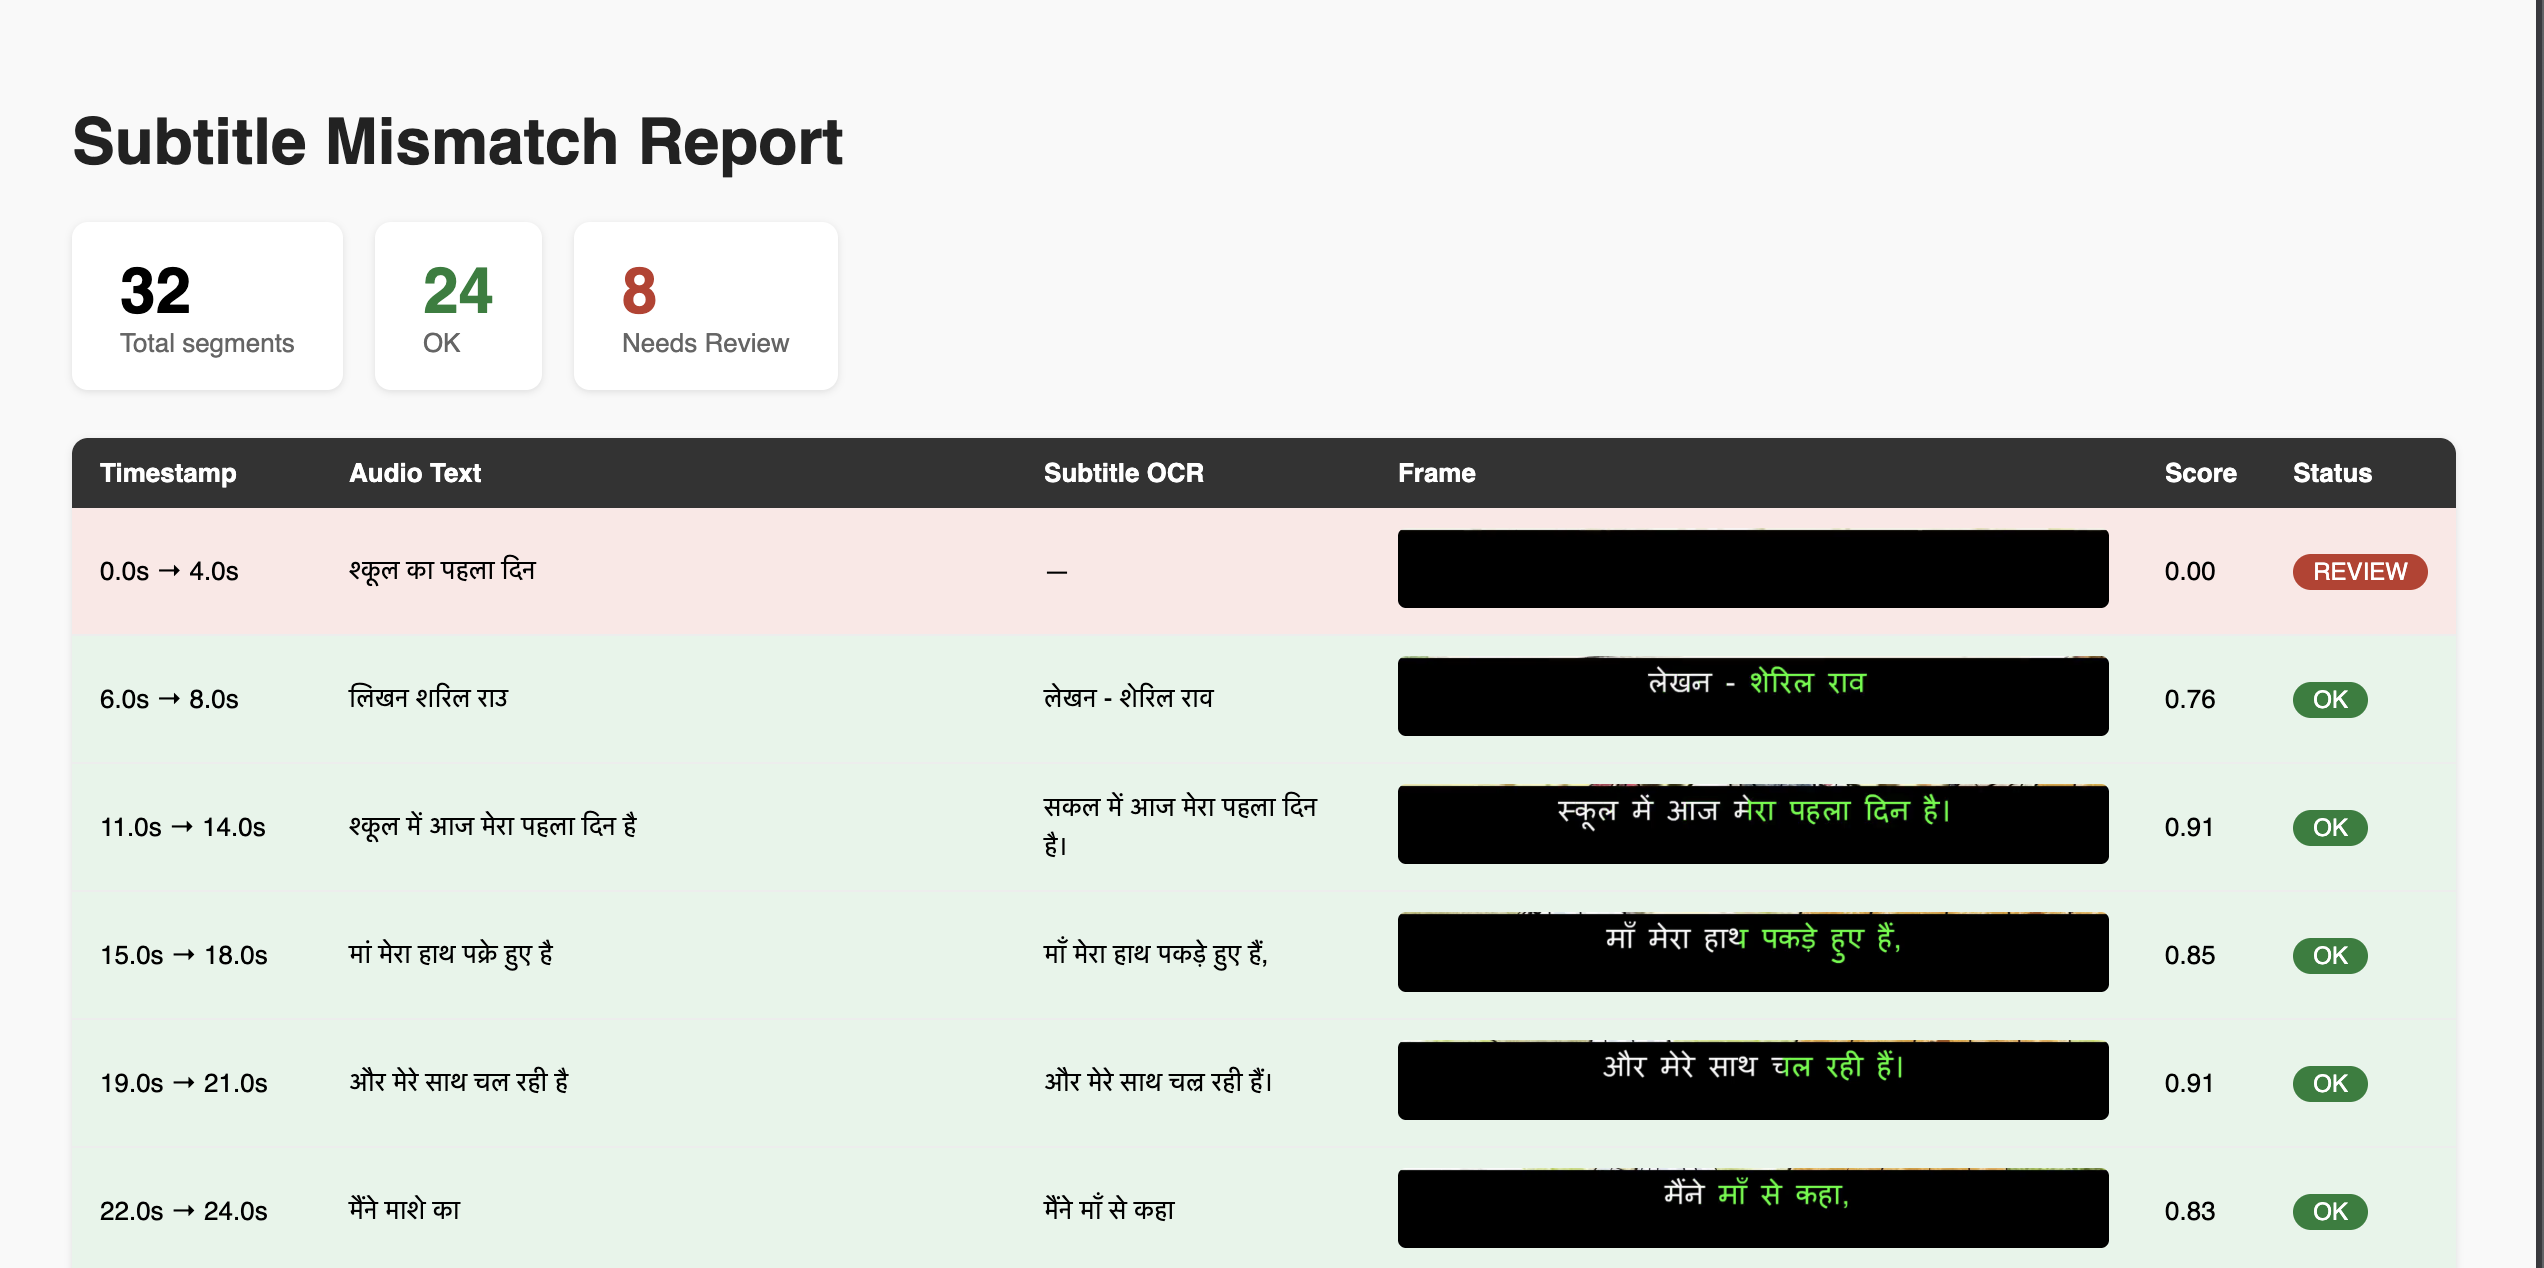
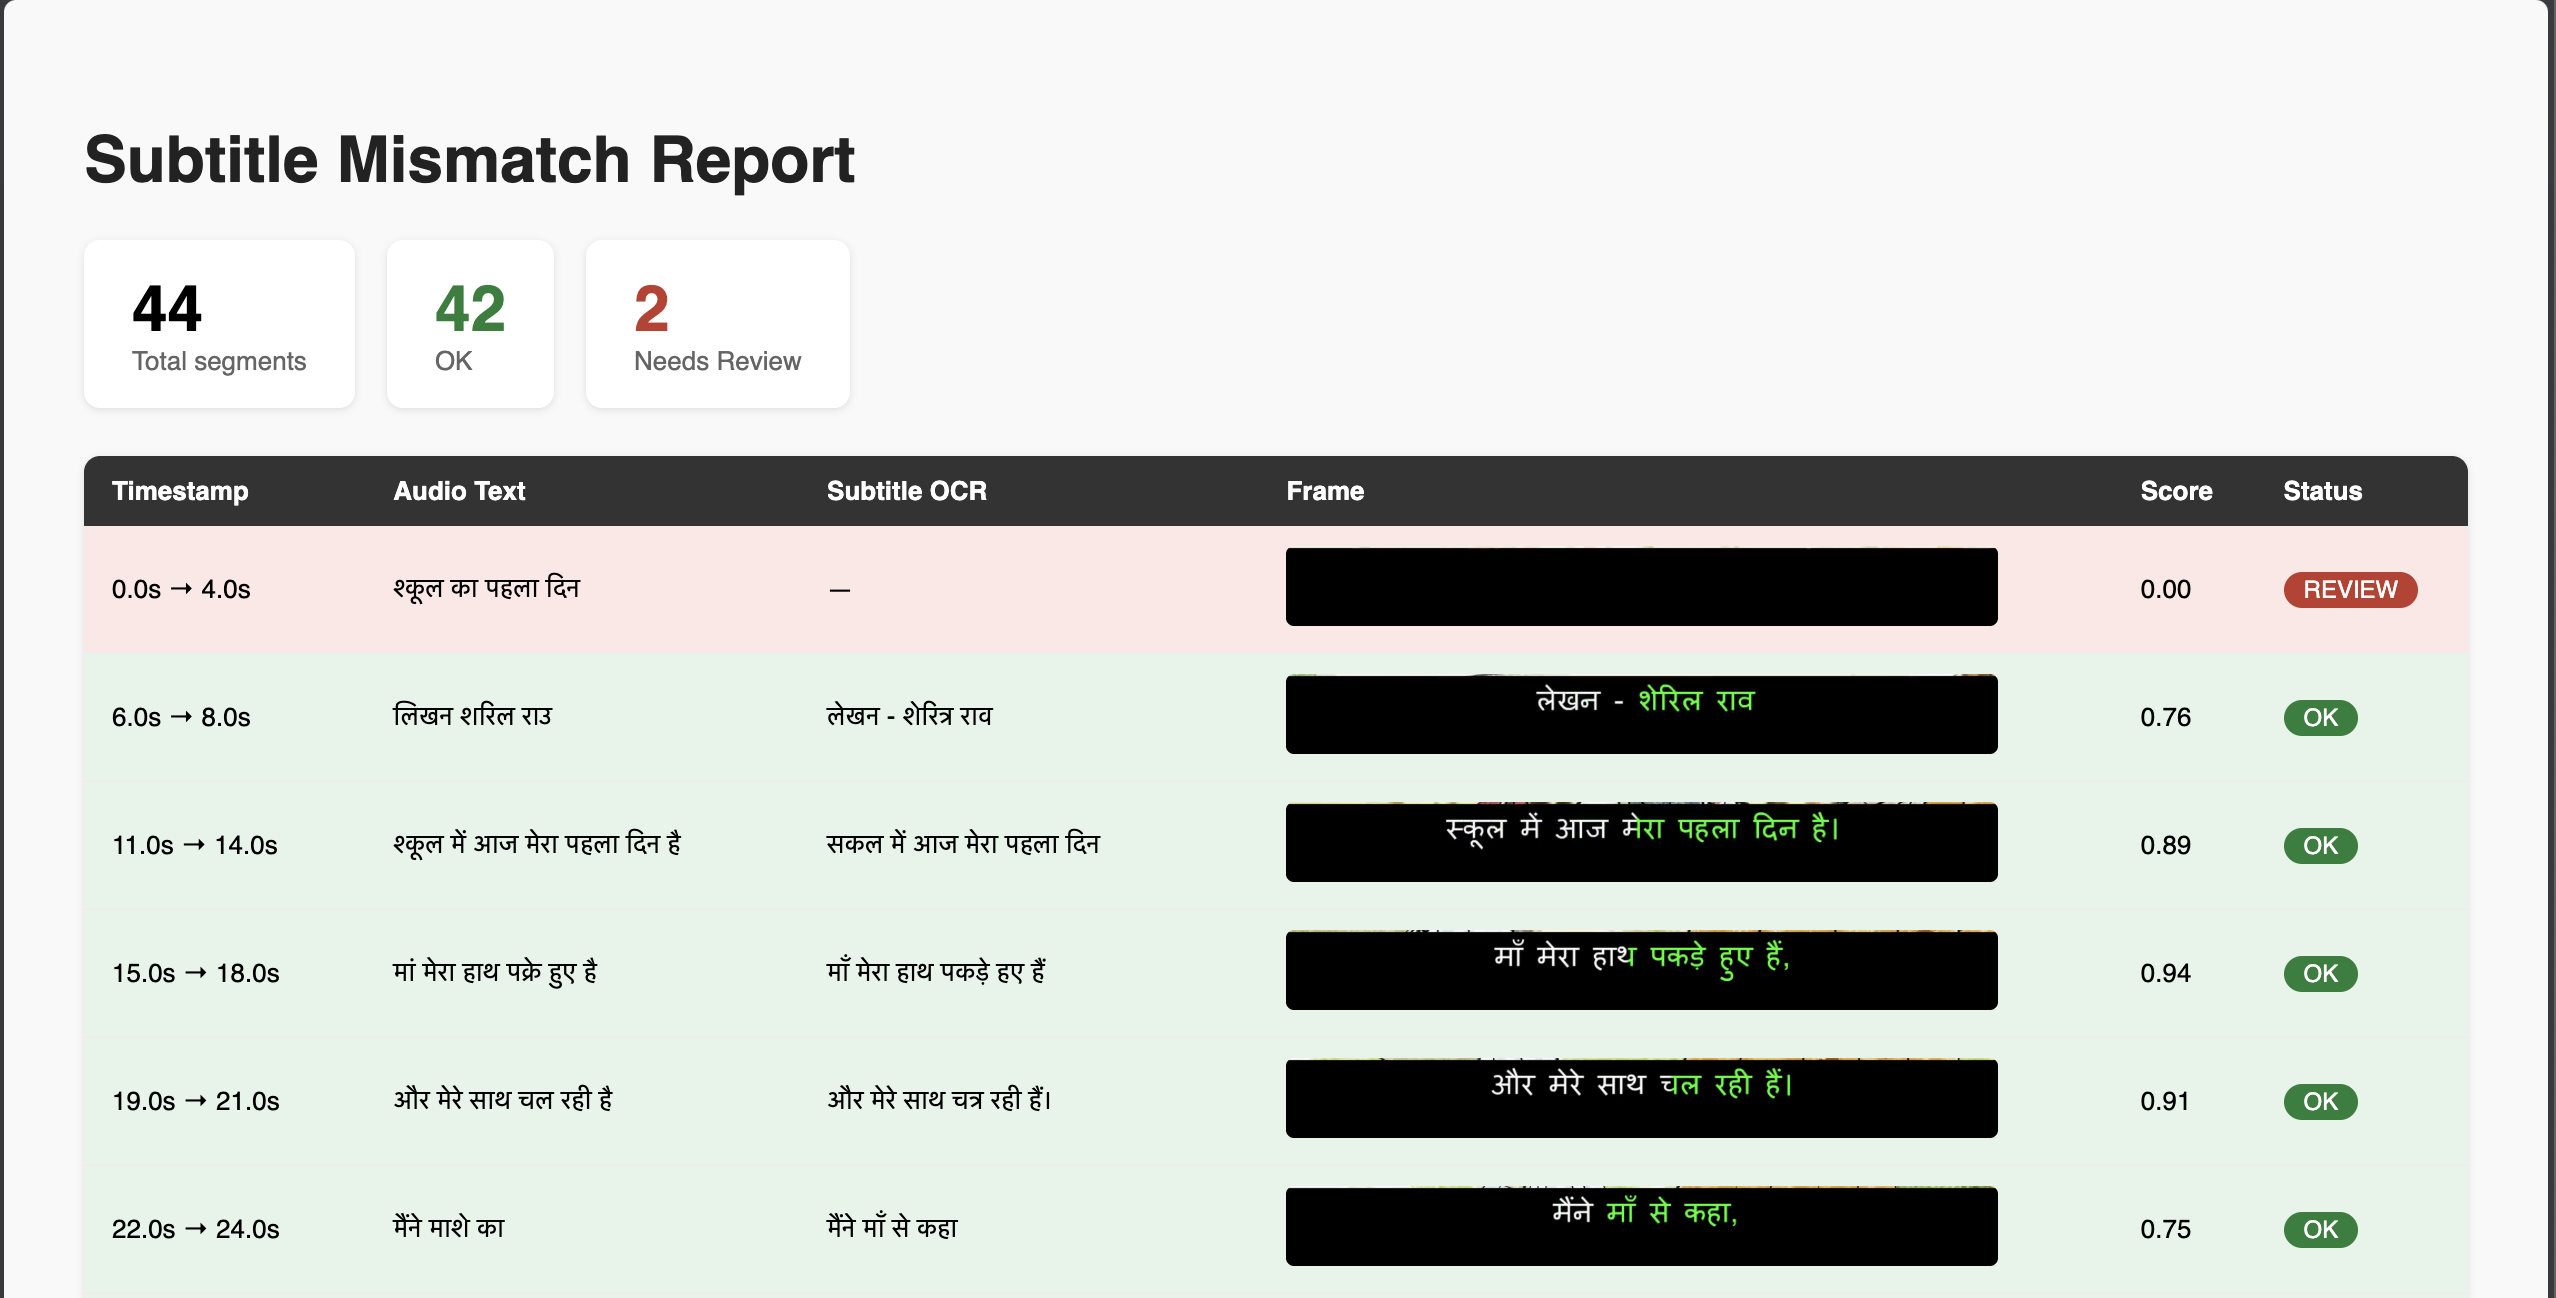
update readme and report

diff --git a/README.md b/README.md
@@ -15,6 +15,17 @@ Built as a prototype for [PlanetRead](https://planetread.org) C4GT DMP 2026.
 3. Reads subtitle text with Tesseract OCR (Hindi)
 4. Compares both texts with RapidFuzz and flags mismatches
 
+## Language support
+
+Check other languages by switching branches.
+
+- Hindi: best supported right now.
+- Kannada: supported, but ASR is noisy and mismatch scores are less stable.
+- Marathi: supported, but early segments misread and OCR alignment is drifting 
+
+Work in progress...
+
+
 ## Screenshots
 
 ### Subtitle region crop
